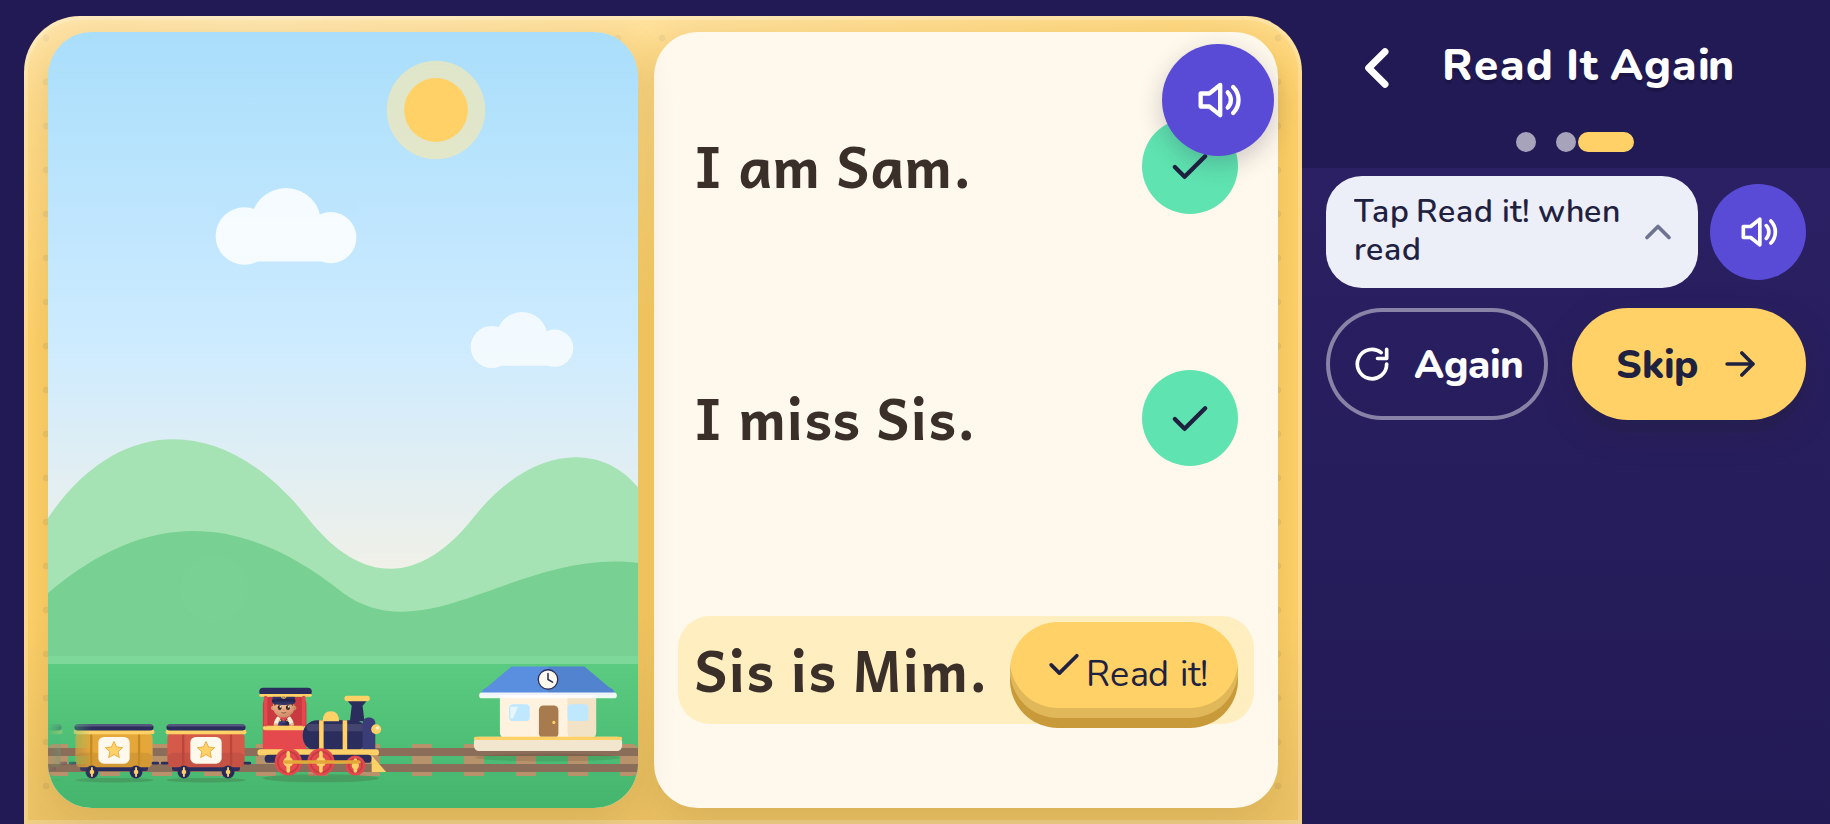
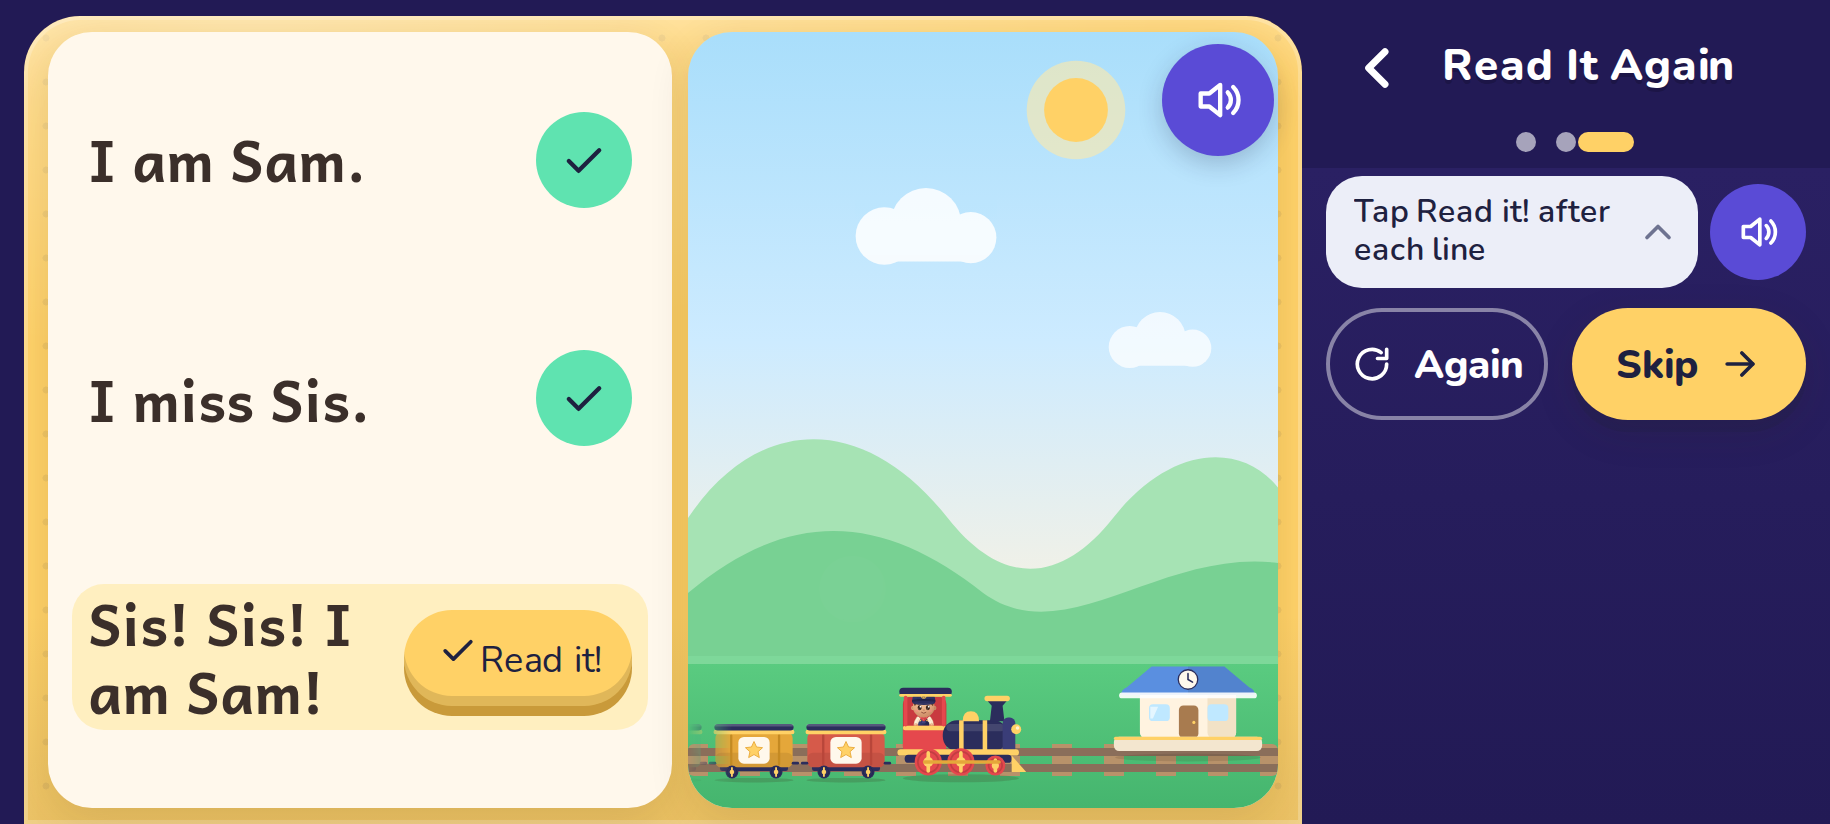
Review stops and Read It Again: new story text, gist wording, Review Stop header line; screenshots

diff --git a/js/screens/shell.js b/js/screens/shell.js
@@ -19,7 +19,7 @@ import { landscape, trainBar } from './practice-world.js';
 //   return shell.mount(current, advance);
 // current is {el, parts(), script(), again(), next?(), onShow?(), cleanup?(), flush?, lockScroll?}.
 // lockScroll: the activity never scrolls and ignores pan gestures (tasks where a finger slides across the screen).
-export function makeShell({ ctx, title, color, steps, pos, from, isLast, soundKeys, backLabel = 'Back', stepNoun = 'Step', seenKeys = [], autoOpen = true, skipUntilDone = false, tip = null, tipKey = '', noScript = false, noAgain = false, autoAdvance = false, world = null }) {
+export function makeShell({ ctx, title, color, steps, pos, from, isLast, soundKeys, backLabel = 'Back', stepNoun = 'Step', seenKeys = [], autoOpen = true, skipUntilDone = false, tip = null, tipKey = '', noScript = false, noAgain = false, autoAdvance = false, world = null, kicker = '' }) {
   const { router, speech, store } = ctx;
   const themed = !!world && store.settings.newPractice === true;
   let current = null, doneHook = () => {};
@@ -66,7 +66,7 @@ export function makeShell({ ctx, title, color, steps, pos, from, isLast, soundKe
 
       const head = h('header', { class: 'task-head' },
         h('button', { class: 'icon-btn light', type: 'button', 'aria-label': backLabel, onclick: () => { cancelAuto(); router.back(); } }, icon('back', 28)),
-        h('h1', {}, title),
+        h('h1', {}, title, ...(kicker ? [h('small', { class: 'task-kicker' }, kicker)] : [])),
         h('span', { class: 'head-spacer' }),
         bar);
       const stage = h('main', { class: `task-stage c-${color}${onDark ? ' on-dark' : ''}` }, h('div', { class: 'task-activity' + (current.flush ? ' flush' : '') + (current.lockScroll ? ' lock' : '') }, current.el), speaker);

diff --git a/js/screens/reread.js b/js/screens/reread.js
@@ -122,8 +122,8 @@ export function rereadBuild({ checkpoint, speech, refresh, setProgress, setDone 
       ? "Read the whole story to your child once, slowly, pointing to each word as you say it. Your child only listens. Then tap 'Your child reads'."
       : phase === 'done'
         ? "Well done. Reading the same story again makes it smoother. Tap Again for one more read, or Finish."
-        : `Your child reads one sentence at a time: '${story[read]}' Let your child try first. If your child gets stuck, sound the word out together. Still stuck? Read the sentence yourself, then have your child read it after you. When the sentence is read, tap Read it!`),
-    gist: () => (phase === 'listen' ? fit('Read the story once, then tap', 'Read it once, point to words') : phase === 'done' ? fit('Well done. Again, or Finish') : fit('Child reads. Then tap Read it!', 'Tap Read it! when read')),
+        : `Your child reads one sentence at a time: '${story[read]}' Let your child try first. If your child gets stuck, sound the word out together. Still stuck? Read the sentence yourself, then have your child read it after you. After each sentence your child reads, tap Read it!`),
+    gist: () => (phase === 'listen' ? fit('Read the story once, then tap', 'Read it once, point to words') : phase === 'done' ? fit('Well done. Again, or Finish') : fit('Tap Read it! after each line')),
     again: () => { again(); speech.say([{ tts: 'Now you read it.' }]); },
     cleanup: () => { disposed = true; T.clear(); stopWatching(); },
   };

diff --git a/js/screens/review.js b/js/screens/review.js
@@ -24,7 +24,7 @@ export function reviewTaskScreen(ctx, id, idx = 0) {
   // The tap games run their short round counts (as in a lesson with several games); the sound is the planned lesson's.
   const lesson = { ...base, games: ck.plan.map((p) => p.task).filter((t) => TAP_GAMES.includes(t)) };
   const sound = curriculum.sounds[lesson.sound];
-  const shell = makeShell({ ctx, title: task.name, color: task.color, steps: ck.plan.length, pos: index, from: lastIndex[ck.id] === undefined ? -1 : lastIndex[ck.id], isLast, soundKeys: Object.keys(curriculum.sounds), backLabel: 'Back to the path', stepNoun: 'Game', autoAdvance: true, world: ck.world || 'W1',
+  const shell = makeShell({ ctx, title: task.name, color: task.color, steps: ck.plan.length, pos: index, from: lastIndex[ck.id] === undefined ? -1 : lastIndex[ck.id], isLast, soundKeys: Object.keys(curriculum.sounds), backLabel: 'Back to the path', stepNoun: 'Game', kicker: `Review Stop · ${index + 1} of ${ck.plan.length}`, autoAdvance: true, world: ck.world || 'W1',
     tip: TIP, tipKey: 'tip:review', autoOpen: !['hunt', 'signals', 'wagons', 'board'].includes(task.type), seenKeys: [task.type] });
   // Nothing new: the Letter Hunt balloons and the lamps and wagons the games fill up with (games-data.js otherLetters) only ever carry letters
   // taught by this stop. A lesson's own list also holds letters that come later.

diff --git a/css/app.css b/css/app.css
@@ -2099,3 +2099,6 @@ button.hw-tile:active { transform: translateY(3px) scale(.97); }
 .art-mouth .mouth-ic { color: var(--coral); }
 @media (max-height: 700px) { .mouth-art { width: min(44vw, 170px, calc(100dvh - 400px)); min-width: 96px; } .mouth-how-text { font-size: 17px; } }
 .review-help { align-self: center; margin-top: 4px; }
+
+/* Review Stop: a small line under the game's title says where the grown-up is */
+.task-kicker { display: block; margin-top: 1px; font-size: 11.5px; font-weight: 800; line-height: 1.1; letter-spacing: .02em; opacity: .85; }

diff --git a/README.md b/README.md
@@ -432,4 +432,4 @@ The design is in `docs/TRAIN-WORLD.md`; screenshots at four phone sizes are in `
 - v1.9.32: storybook as real picture-book pages (roadmap item 5): in portrait one cream paper page (CSS grain, pages stacked behind) with a full-bleed scene across the top (`js/art/scenes.js`, a `scene` field per page in `data/books/*.json`; story text unchanged), the story text below in the story font, a page number, a folded corner that turns the page and quiet round Previous/Next arrows in the bottom row (never over the picture, the slider or the text); landscape keeps the open spread with the same paper. The cover is a cloth hardback with Pip and the child's own figure; the review page has a scene banner. Page 4 now draws Sam with the figure art in a red cap, as the text says ("He has a red hat"; `kidSvg` takes optional `hat` colours, book art `kid`), instead of a blue cap emoji. The book test seeds "Lily" with a matching look. Test fixes for the lesson rebuild: smoke runs Letter Hunt only in lessons that have it, sfx opens Saying Sounds at its new place. Screenshots in `docs/screenshots/storybook/`.
 - v1.9.31: lesson tips, auto-return and story stops: (1) The "Did you know?" card (`tipCard`, house style) now shows over the lesson overview (`/lesson/N`) each time a lesson is opened from the Home, rotating through `data/tips.json` with `nextTip`/`tipsSeen`; coming back to the overview from a task does not show another (`ctx.lessonTipFor` is reset by `homeScreen`), and the card lives inside the overview so it never appears on a task screen. It stays until its close X is tapped (no timeout; a tap outside or on the text does nothing). The X moved to the bottom right of every tip card (48 px, a soft grey disc in the bottom row of the card); the lesson card has no "Got it" (`tipCard({ gotIt: false, className: 'lesson-tip' })`), the Home preview and the world loading card keep theirs. The card sits above the big Start button (`.tip-card.lesson-tip`). `window.__noTips = true` switches it off; `test/lib.mjs` `newPage` sets it by default so the other suites' taps are never covered, and `test/lesson-tips.mjs` turns it back on. (2) New tip 20 ("A fun way to speed up your child's learning is to find letters "out in the wild"..."), without the "Did you know?" prefix (the card title says it; `check-content` forbids the prefix and now expects 20 tips). Tips are never spoken (no code path sends `tips.json` to the speech engine), so the "mmm" in it, like the one in tip 7, is only read by the grown-up. (3) After "Yes, go on" on a lesson's finish screen (the second tap, as before) the result is saved, the buttons switch off, and after `LESSON_RETURN_MS` (1.2 s of the confetti and cheering) the app goes to `#/home` by itself, where the existing arrival ride (`finishedStop`, `trainDone`, `trainAt`) plays from the finished station to the next; under reduced motion it returns the same way and the train and figure are simply at the next stop. "Not yet, practice again" is unchanged; a checkpoint's finish screen (story, ride, crate) still goes Home at once. (4) ORDER item 4: `checkpointStopIndex` (`js/sequence.js`) picks, among the checkpoints standing right before the current lesson, the first Story or Smooth Ride not yet done and unlocked (crates never hold the train). In the 3D Home (`stopsOf`) and the 2D path (`mapScreen`) that checkpoint becomes the current stop (its stop is highlighted and holds the bubble "Tap to start", the figure rides there and stands beside it) and the lesson after it shows as an ordinary open stop; once the checkpoint is done the ride goes on to the next held checkpoint or the lesson. The station building is unchanged. Tests: `test/train.mjs` `autoReturnChecks` (and its old arrival checks now aim at the held Smooth Ride, `iN`), `test/lesson-tips.mjs`. The heat checks in train.mjs use lesson 3's Letter Hunt and Practicing Words (the old task numbers no longer matched since lesson rebuild phase A). Screenshots in `docs/screenshots/tips-ride/`.
 - v1.9.33: lesson rebuild phase B (details in `docs/LESSON-REBUILD.md` section 9): (1) The lessons follow the curriculum's order: World 1 `m a s i t p` unchanged, World 2 `f o n d c/k h u g l r b` (lessons 7 to 17); o, c/k, u and r are new lessons (`ORDER_SOUNDS` in `js/order.js`, `TABLE` and `MOUTH` in `tools/gen-lessons.mjs`, then `node tools/gen-lessons.mjs`; `data/curriculum.json` is never edited by hand). (2) /k/ is ONE lesson with two spellings: data key `c`, `sounds.c.alt = ['k']`, the parent says "k-"; New Sound, Watch My Mouth and the overview show both letters, Letter Hunt, Green Light, Wagon Parade and Station Board use both spellings in turn, and a game that can only show one glyph uses c. (3) Every word a child reads uses only the letters taught up to and including its lesson (`test/check-content.mjs` and `test/phase-b.mjs`); a picture word with untaught letters (fish, nut, duck, leaf, robot) is only said, never shown as letters (`sayOnly`). (4) Saved progress is mapped by sound, never reset: a save under the old `masitpnfdhgbl` order moves each lesson to its sound's new number (`LEGACY_ORDER`, `store.parse()`); finished lessons keep their results and dates, unfinished ones restart their tasks, `trainAt` and `trainDone` and the per-lesson seen scripts are dropped, a cloud copy is mapped the same way. (5) `isDone` is strict (a lesson's own got-it only; older saves are written out once), a lesson is open when it is done or every earlier lesson is done, and a level needs every lesson up to its own done, so a mapped child cannot skip o, c/k, u or r.
-- Review Stops and Read It Again (roadmap items 3c and 6; details in `docs/LESSON-REBUILD.md` section 10; supersedes the Smooth Ride entries above, the microphone is gone): (1) Five Review Stops (checkpoint `kind: "review"`, ids `v1` to `v5`, title "Review Stop", blue game-ticket icon) after lessons 3, 9, 12, 15 and 17, generated by `tools/gen-lessons.mjs` (`REVIEW_PLANS`: 3 games plus Ticket Check, each activity `{ task, lesson }`). They reuse the lesson task screens (`js/screens/review.js`, routes `#/checkpoint/vN` and `#/checkpoint/vN/task/N`, finish screen of any checkpoint), play only taught letters (Letter Hunt, Green Light and Wagon Parade filler letters are trimmed to the letters taught by the stop; Ticket Check is always a letter question), hold the train like Story stops (`checkpointStopIndex`), never block the next lesson and are not new lessons for the daily limit. Saves have no result for them; `isCheckpointDone` counts a stop done once the lesson after it is done, and `trainDone` counts only own results, so nothing is forced back and no ride plays for them. (2) Smooth Ride (`r1`) is now "Read It Again" (`kind: "reread"`, `js/screens/reread.js`): the grown-up reads a three-sentence story once ("I am Sam." "I miss Sis." "Sis is Mim."), the child reads it back, the grown-up taps "Read it!" per sentence and the train pulls in one wagon each time; "Again" starts over. `js/mic.js`, `js/blend-detect.js`, the ride screen and its tests are deleted: the app never listens or records. `test/ride.mjs` became `test/read-again.mjs`; new `test/review-stops.mjs`.
+- Review Stops and Read It Again (roadmap items 3c and 6; details in `docs/LESSON-REBUILD.md` section 10; supersedes the Smooth Ride entries above, the microphone is gone): (1) Five Review Stops (checkpoint `kind: "review"`, ids `v1` to `v5`, title "Review Stop", blue game-ticket icon) after lessons 3, 9, 12, 15 and 17, generated by `tools/gen-lessons.mjs` (`REVIEW_PLANS`: 3 games plus Ticket Check, each activity `{ task, lesson }`). They reuse the lesson task screens (`js/screens/review.js`, routes `#/checkpoint/vN` and `#/checkpoint/vN/task/N`, finish screen of any checkpoint), play only taught letters (Letter Hunt, Green Light and Wagon Parade filler letters are trimmed to the letters taught by the stop; Ticket Check is always a letter question), hold the train like Story stops (`checkpointStopIndex`), never block the next lesson and are not new lessons for the daily limit. Saves have no result for them; `isCheckpointDone` counts a stop done once the lesson after it is done, and `trainDone` counts only own results, so nothing is forced back and no ride plays for them. (2) Smooth Ride (`r1`) is now "Read It Again" (`kind: "reread"`, `js/screens/reread.js`): the grown-up reads a three-sentence story once ("I am Sam." "I miss Sis." "Sis! Sis! I am Sam!"), the child reads it back, the grown-up taps "Read it!" per sentence and the train pulls in one wagon each time; "Again" starts over. `js/mic.js`, `js/blend-detect.js`, the ride screen and its tests are deleted: the app never listens or records. `test/ride.mjs` became `test/read-again.mjs`; new `test/review-stops.mjs`.

diff --git a/docs/LESSON-REBUILD.md b/docs/LESSON-REBUILD.md
@@ -375,10 +375,10 @@ Owner decisions of 2026-10-10 (roadmap items 3c and 6). Built after phase B beca
 - **What:** a repeated-reading station after lesson 4. The grown-up reads a tiny story once, pointing to each word; the child then reads it
   back one sentence at a time. After each sentence the grown-up taps a big "Read it!" and the train on the screen pulls one more wagon into
   view. "Again" starts the reading over. At the end Pip waves at the station. Same finish screen as every stop.
-- **The story** (only m a s i, plus the heart words "I" and "is" that Story 1 already teaches): "I am Sam." "I miss Sis." "Sis is Mim."
+- **The story** (only m a s i, plus the heart word "I" that Story 1 already teaches): "I am Sam." "I miss Sis." "Sis! Sis! I am Sam!"
 - **Parent script:** (listen) "Read the whole story to your child once, slowly, pointing to each word as you say it. Your child only
   listens. Then tap 'Your child reads'." (read) "Your child reads one sentence at a time. Let your child try first. If your child gets stuck,
-  sound the word out together. Still stuck? Read the sentence yourself, then have your child read it after you. When the sentence is read,
+  sound the word out together. Still stuck? Read the sentence yourself, then have your child read it after you. After each sentence your child reads,
   tap Read it!" The app judges nothing.
 - **Why:** repeated reading with a fluent adult model improves fluency (Therrien 2004, already in the white paper's table).
 - **The microphone is gone from the app.** `js/mic.js`, `js/blend-detect.js`, the Smooth Ride screen, its permission card and its tests are
